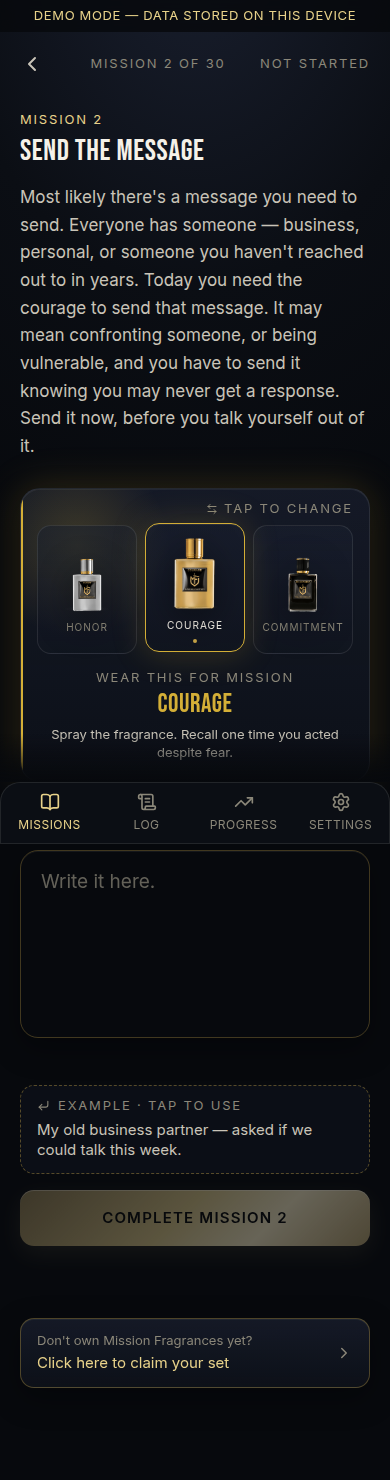
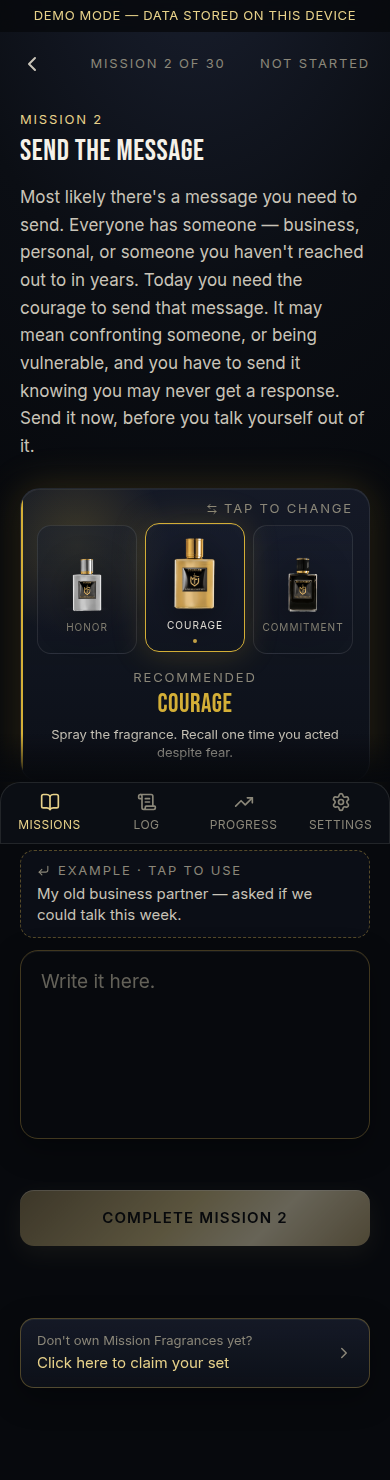
RECOMMENDED / YOUR CHOICE, and the example moves above the field
The fragrance card says RECOMMENDED when he is on the Mission's suggestion
and YOUR CHOICE when he isn't. Nothing more — the gold dot already shows
which one was recommended, so explaining it in words was noise.

The example moves above the writing box: the question, then an example of an
answer, then the box. That is the order he needs them in — reading an
example after staring at an empty field is too late. The field's label is
rendered by the screen now rather than by the Field, so the example can sit
between the two, and when it disappears the field rises to meet the button
instead of the button jumping up.

Claude-Session: https://claude.ai/code/session_01WVgj5E7JPb9xgPaaNWkVw6

diff --git a/src/app/(app)/missions/[number]/page.tsx b/src/app/(app)/missions/[number]/page.tsx
@@ -288,12 +288,29 @@ function MissionDetailInner({
         </GlassCard>
       )}
 
-      {/* The one thing the screen is for. Room to write more than a line,
-          and lit like the button it leads to. */}
-      <div className="mt-7">
+      {/* The question, then an example of an answer, then the box he writes
+          in — read in that order, which is the order he needs them. The
+          label lives out here so the example can sit between the two. */}
+      <p className="eyebrow mt-7 text-gold-300">{def.inputLabel}</p>
+
+      {/* The example is a button, not grey text he can only look at. It goes
+          the moment there is anything in the field, and the field rises to
+          meet the button. */}
+      {def.inputExample && !text.trim() && (
+        <TapToUse
+          className="mt-2"
+          text={def.inputExample}
+          onUse={(value) => {
+            setText(value);
+            track("mission_example_used", { missionNumber: def?.number });
+          }}
+        />
+      )}
+
+      <div className="mt-3">
         <Field
           variant="prominent"
-          label={def.inputLabel}
+          aria-label={def.inputLabel}
           value={text}
           onChange={setText}
           maxLength={PROOF_TEXT_MAX}
@@ -302,19 +319,6 @@ function MissionDetailInner({
           placeholder="Write it here."
         />
       </div>
-
-      {/* The example is a button, not grey text he can only look at. It goes
-          the moment there is anything in the field. */}
-      {def.inputExample && !text.trim() && (
-        <TapToUse
-          className="mt-3"
-          text={def.inputExample}
-          onUse={(value) => {
-            setText(value);
-            track("mission_example_used", { missionNumber: def?.number });
-          }}
-        />
-      )}
 
       {def.photoEncouraged && (
         <div className="mt-4">

diff --git a/src/components/FragranceCue.tsx b/src/components/FragranceCue.tsx
@@ -131,8 +131,8 @@ export default function FragranceCue({
           {recommended === undefined
             ? "YOUR FRAGRANCE"
             : onRecommendation
-              ? "WEAR THIS FOR MISSION"
-              : "YOUR CHOICE · THE DOT MARKS THE RECOMMENDATION"}
+              ? "RECOMMENDED"
+              : "YOUR CHOICE"}
         </p>
         {/* Keyed so the line remounts on a switch: iOS Safari splices text
             that changes in place inside a backdrop-filtered card. */}

diff --git a/docs/HANDOFF.md b/docs/HANDOFF.md
@@ -19,7 +19,7 @@ states. The Vivid Vision is archived; its replacement is the compiled, printable
 
 - Owner: Antonio Centeno (product decisions). Team contact: Yuri.
 - Repo: https://github.com/aiexecutionaccelerator/mfapp (branch `main`)
-- Version: 2.3.1 (one input, one click)
+- Version: 2.3.2 (one input, one click)
 
 ## Architecture facts that matter
 
